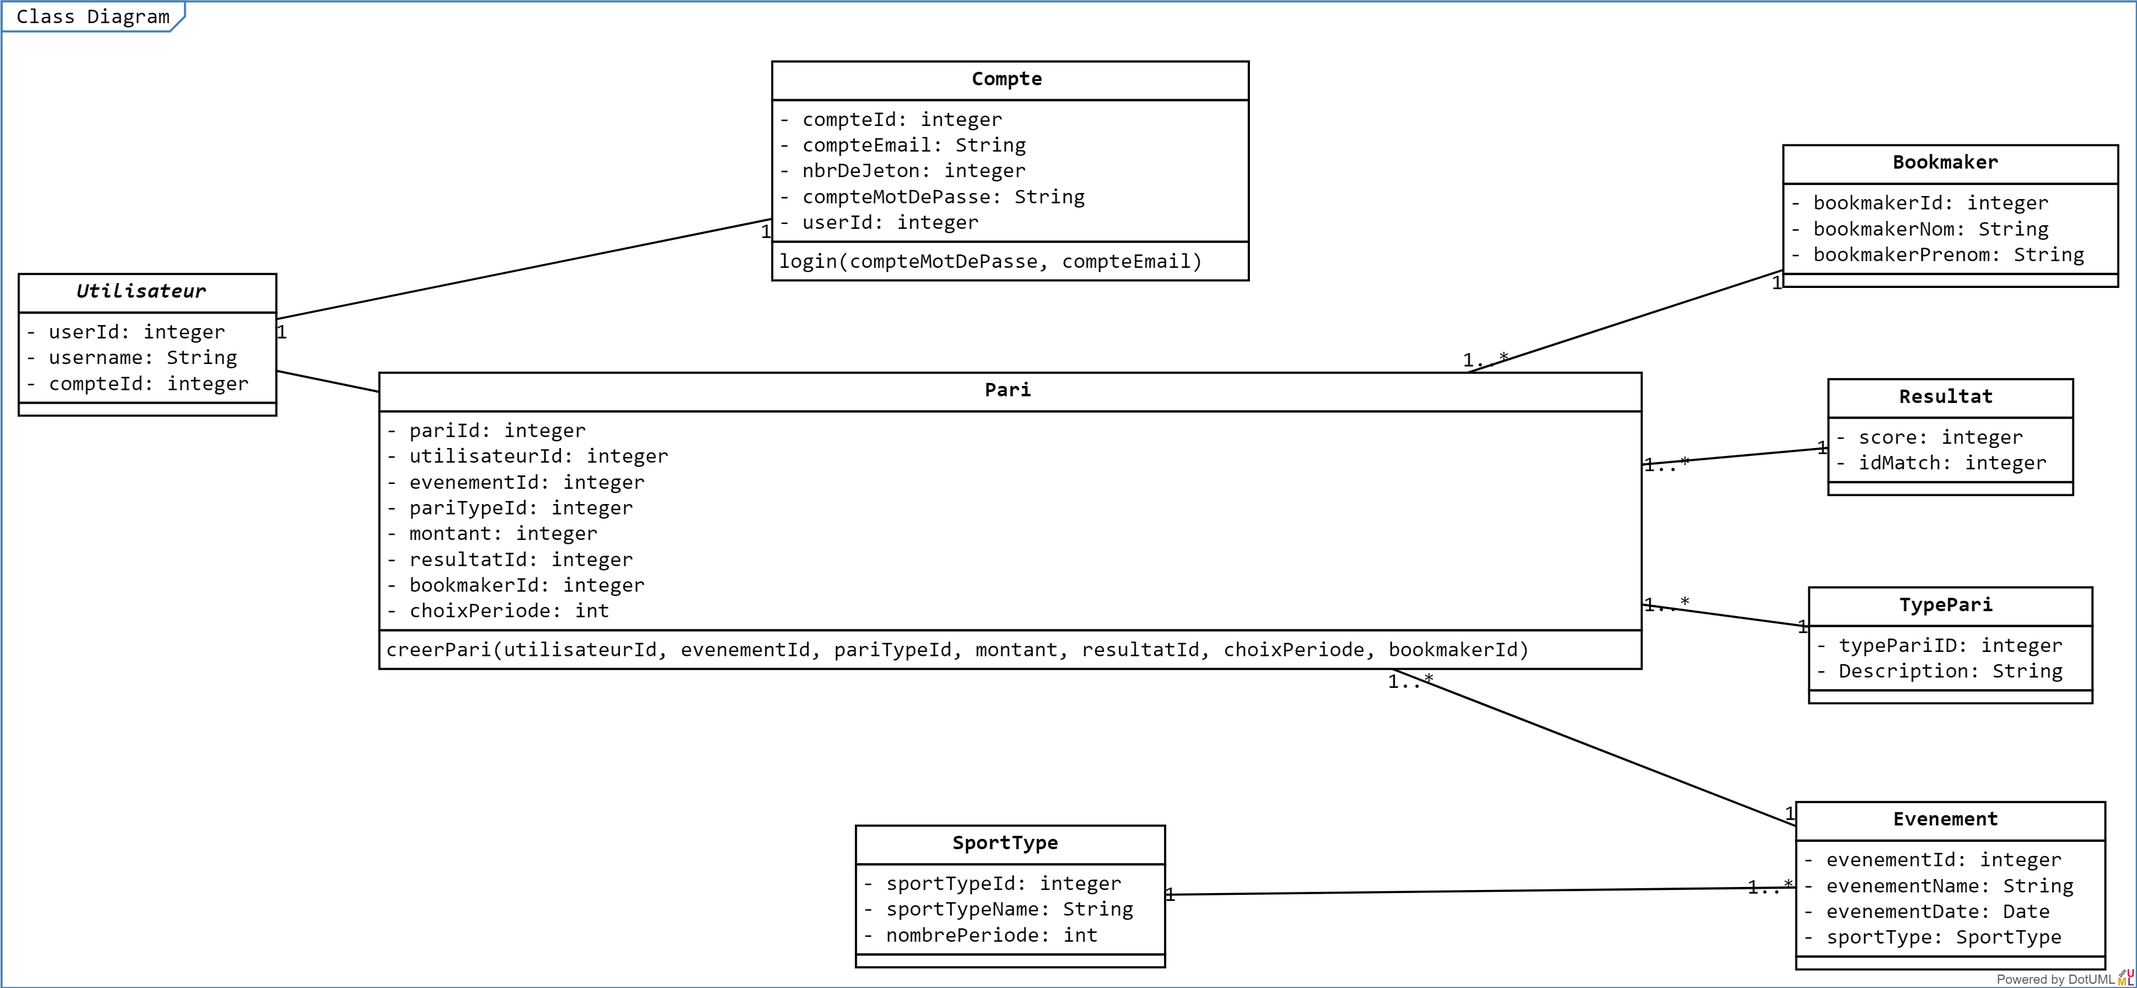
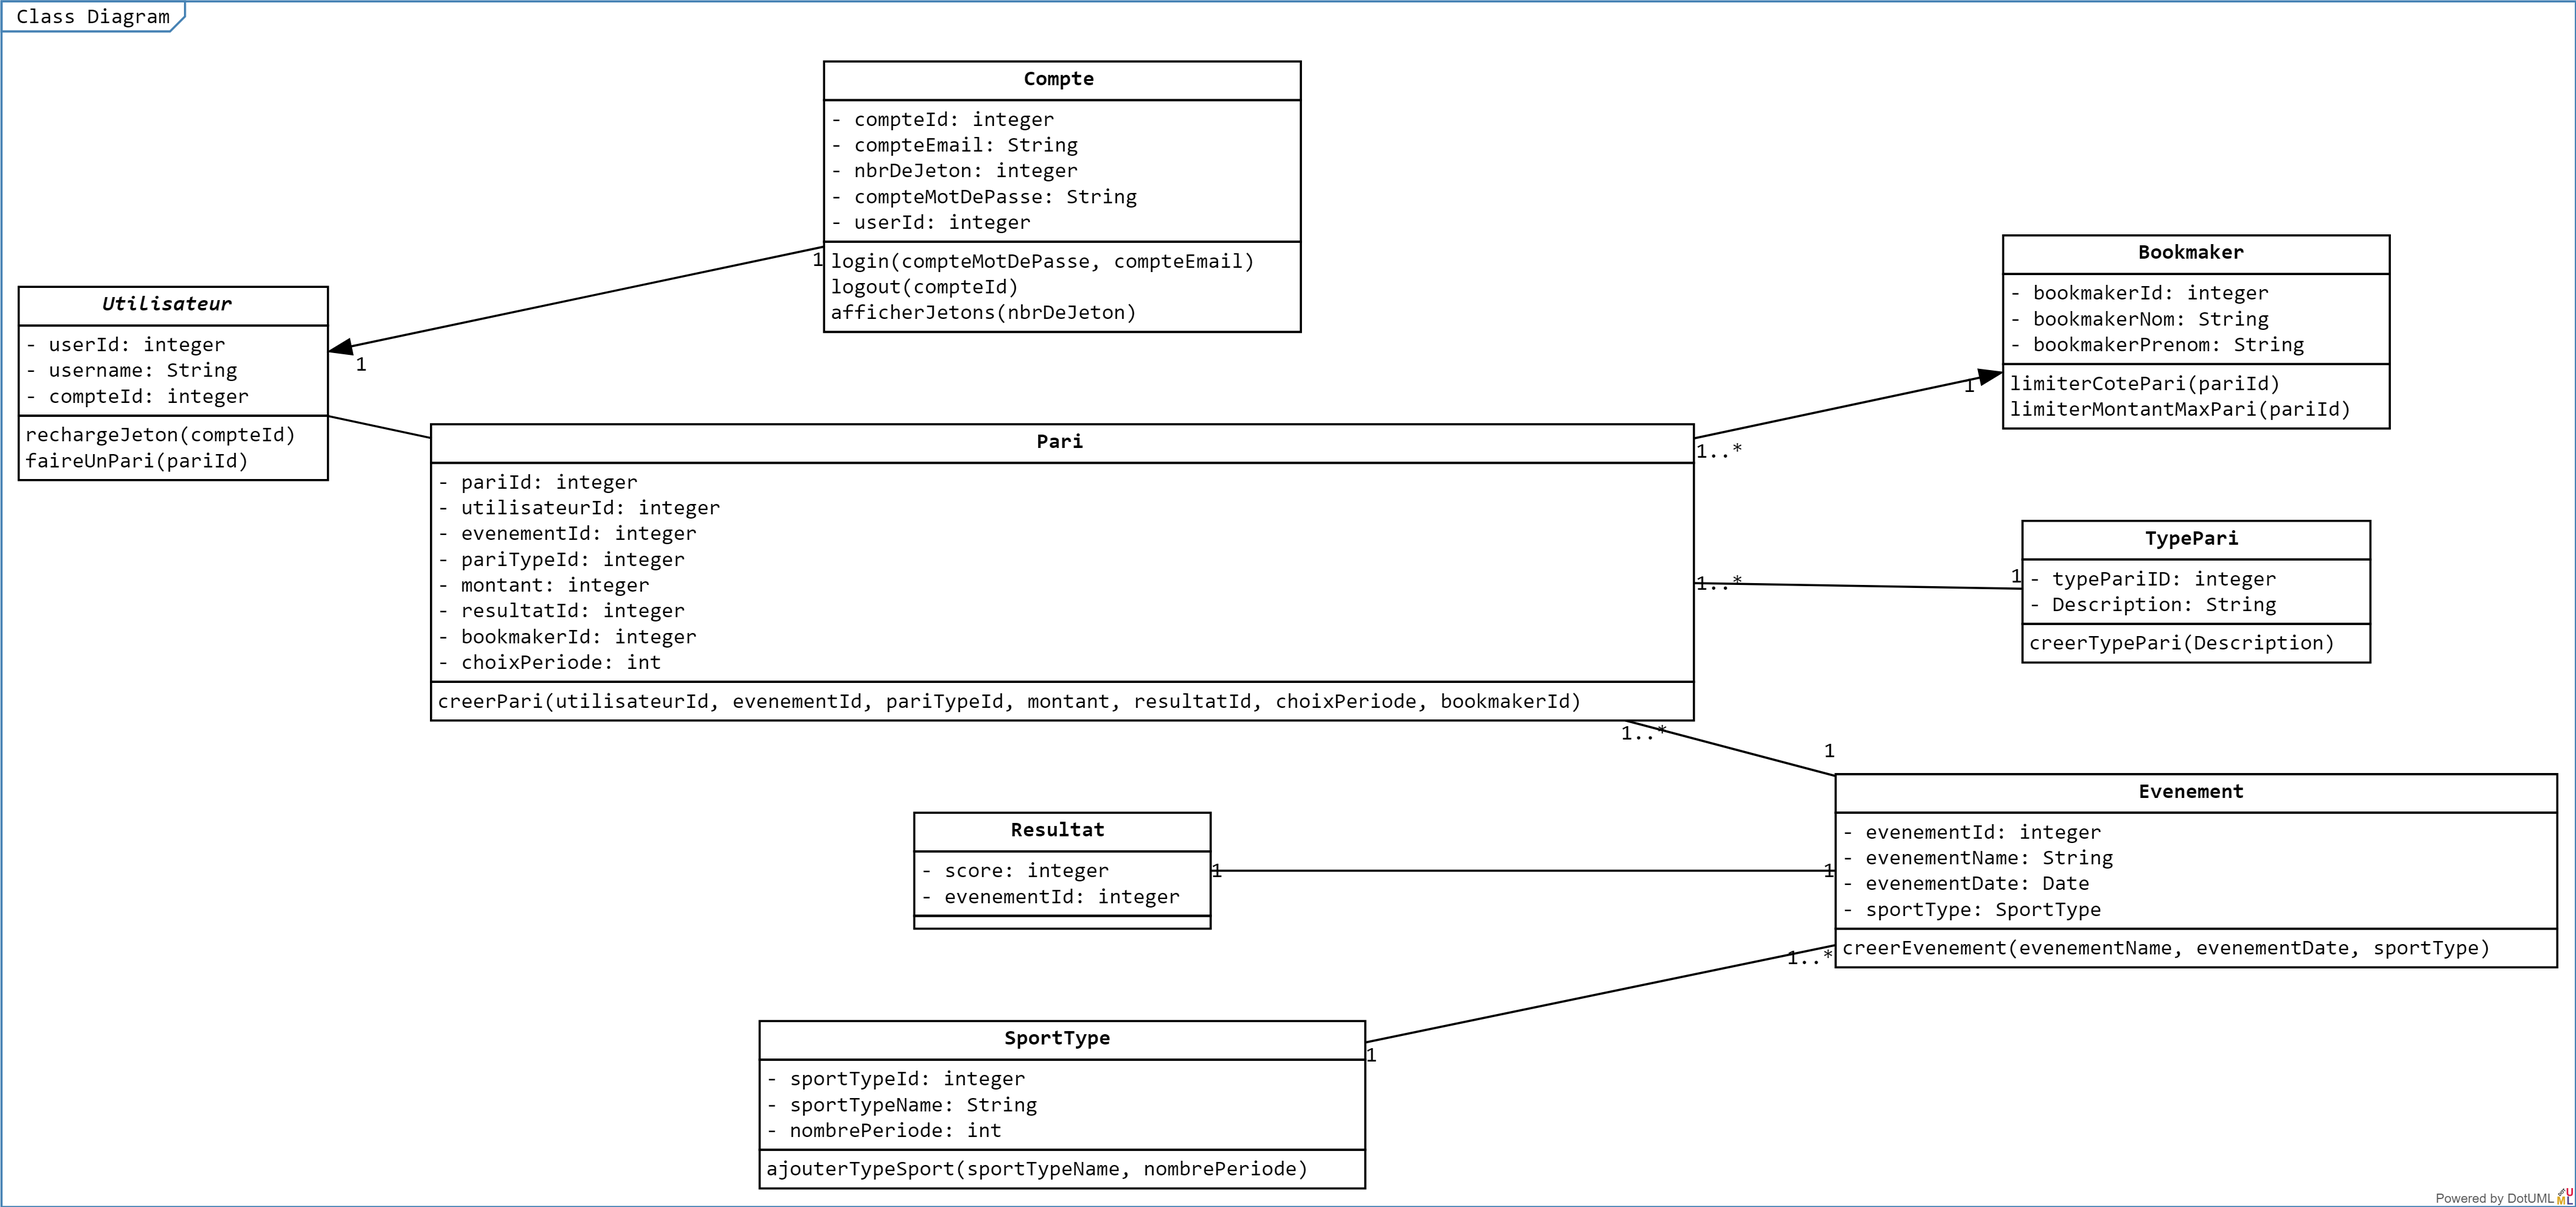
Finalisation, reste les readme à remplir

diff --git a/ProjectOpenXava/Pari.java b/ProjectOpenXava/Pari.java
@@ -1,0 +1,44 @@
+package com.yourcompany.project_bmo_lelioalex.model;
+
+import java.math.*;
+
+import javax.persistence.*;
+
+import org.openxava.annotations.*;
+
+import lombok.*;
+
+@Entity
+@Getter @Setter
+public class Pari {
+    
+    @Id
+    @GeneratedValue(strategy = GenerationType.IDENTITY)
+    @Hidden
+    int id;
+    
+    @ManyToOne(fetch=FetchType.LAZY)
+    @Column(length=50)
+    @Required
+    String typeDePari;
+    
+    @ManyToOne(fetch=FetchType.LAZY)
+    @JoinColumn(name="utilisateur_id") // Le nom de la colonne dans la table des Pari qui référence l'utilisateur
+    @Required
+    Utilisateur utilisateur;
+    
+    @ManyToOne(fetch=FetchType.LAZY)
+    @Column(length=50)
+    @Required
+    String evenement;
+    
+    @Money
+    @Required
+    BigDecimal montantMisé;
+    
+    @Column(length=10)
+    @Required
+    String resultatPrevu;
+
+}
+

diff --git a/ProjectOpenXava/Evenement.java b/ProjectOpenXava/Evenement.java
@@ -1,0 +1,35 @@
+package com.yourcompany.project_bmo_lelioalex.model;
+import java.time.*;
+
+import javax.persistence.*;
+import javax.persistence.Entity;
+
+import org.hibernate.annotations.*;
+import org.openxava.annotations.*;
+
+import lombok.*;
+
+@Entity
+@Getter @Setter
+public class Evenement {
+
+	@Id
+	@Hidden
+	@GeneratedValue(generator="system-uuid")
+	@GenericGenerator(name="system-uuid", strategy = "uuid")
+	@Column(length=32)
+	String evenementId;
+	
+	@Column(length=50)
+	@Required
+	String Nom;
+	
+    @Required
+    LocalDate date;
+    
+    @OneToOne(
+			fetch=FetchType.LAZY,
+			optional=true)
+	TypeDeSport typeDeSport;
+
+}

diff --git a/ProjectOpenXava/Resultat.java b/ProjectOpenXava/Resultat.java
@@ -1,0 +1,26 @@
+package com.yourcompany.project_bmo_lelioalex.model;
+import javax.persistence.*;
+import javax.persistence.Entity;
+
+import org.hibernate.annotations.*;
+import org.openxava.annotations.*;
+
+import lombok.*;
+
+public class Resultat {
+
+    @Id
+    @Hidden
+    @GeneratedValue(generator="system-uuid")
+    @GenericGenerator(name="system-uuid", strategy = "uuid")
+    @Column(length=32)
+    String ResultatId;
+    
+    @Column(length=50)
+    @Required
+    Integer evenementId;
+
+    @Column(length=50)
+    @Required
+    String score;
+}

diff --git a/ProjectOpenXava/Bookmaker.java b/ProjectOpenXava/Bookmaker.java
@@ -1,0 +1,33 @@
+package com.yourcompany.project_bmo_lelioalex.model;
+import javax.persistence.*;
+import javax.persistence.Entity;
+
+import org.hibernate.annotations.*;
+import org.openxava.annotations.*;
+
+import lombok.*;
+
+@Entity
+@Getter @Setter
+public class Bookmaker {
+	
+	@Id
+	@Hidden
+	@GeneratedValue(generator="system-uuid")
+	@GenericGenerator(name="system-uuid", strategy = "uuid")
+	@Column(length=32)
+	String bookmakerId;
+	
+	@Column(length=50)
+	@Required
+	String Nom;
+
+	@Column(length=50)
+	@Required
+	String Prenom;
+
+}
+	
+
+
+

diff --git a/ProjectOpenXava/Compte.java b/ProjectOpenXava/Compte.java
@@ -1,0 +1,32 @@
+package com.yourcompany.project_bmo_lelioalex.model;
+import javax.persistence.*;
+
+import org.openxava.annotations.*;
+
+import lombok.*;
+
+@Entity
+@Getter @Setter
+public class Compte {
+	
+	@Id
+    @GeneratedValue(strategy = GenerationType.IDENTITY)
+    @Hidden
+    int compteId;
+
+	@Column(length=50)
+	String email;
+	
+	@Column(length=50)
+	String motDePasse;
+	
+	@Column(length=50)
+	int nombreDeJetons;
+	
+	
+	
+	@OneToOne(
+			fetch=FetchType.LAZY,
+			optional=true)
+	Utilisateur utilisateur;
+}

diff --git a/ProjectOpenXava/TypeDePari.java b/ProjectOpenXava/TypeDePari.java
@@ -1,0 +1,31 @@
+package com.yourcompany.clubsportif.model;
+
+import java.math.*;
+
+import javax.persistence.*;
+
+import org.openxava.annotations.*;
+
+import lombok.*;
+
+@Entity
+@Getter @Setter
+public class TypeDePari {
+    
+    @Id
+    @GeneratedValue(strategy = GenerationType.IDENTITY)
+    @Hidden
+    int id;
+    
+    
+    @OneToMany(fetch=FetchType.LAZY,
+    		optional=false)
+            Pari pari;
+    
+
+    @Column(length=50)
+    @Required
+    String description;
+    
+}
+

diff --git a/ProjectOpenXava/TypeDeSport.java b/ProjectOpenXava/TypeDeSport.java
@@ -1,0 +1,31 @@
+package com.yourcompany.clubsportif.model;
+
+import java.math.*;
+
+import javax.persistence.*;
+
+import org.openxava.annotations.*;
+
+import lombok.*;
+
+@Entity
+@Getter @Setter
+public class TypeDeSport {
+    
+    @Id
+    @GeneratedValue(strategy = GenerationType.IDENTITY)
+    @Hidden
+    int sportTypeid;
+    
+    
+    @Column(length=50)
+    @Required
+    String sporTypeName;
+    
+
+    @Column(length=50)
+    @Required
+    int nombrePeriode;
+    
+}
+

diff --git a/ProjectOpenXava/Utilisateur.java b/ProjectOpenXava/Utilisateur.java
@@ -1,0 +1,20 @@
+package com.yourcompany.project_bmo_lelioalex.model;
+import javax.persistence.*;
+
+import org.openxava.annotations.*;
+
+import lombok.*;
+
+@Entity
+@Getter @Setter
+public class Utilisateur {
+	
+	@Id
+    @GeneratedValue(strategy = GenerationType.IDENTITY)
+    @Hidden
+    int utilisateurId;
+
+	@Column(length=50)
+	String username;
+	
+}
